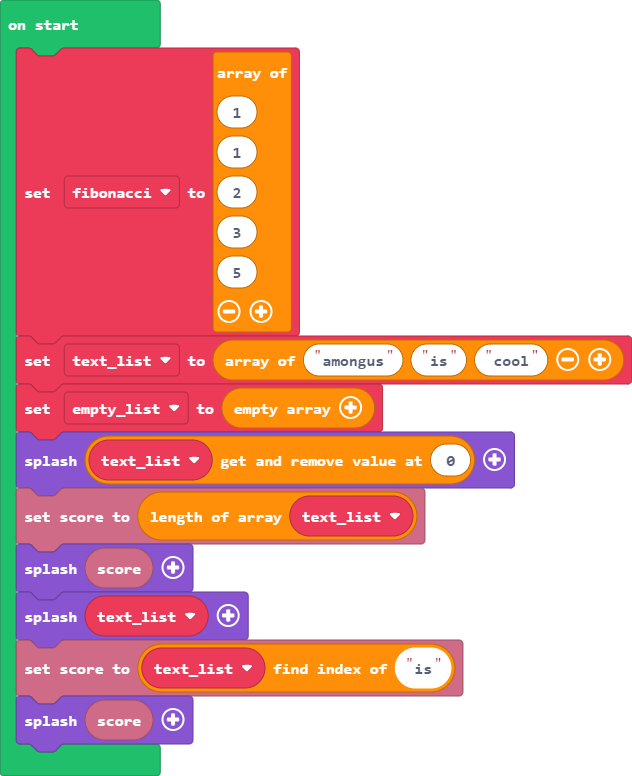
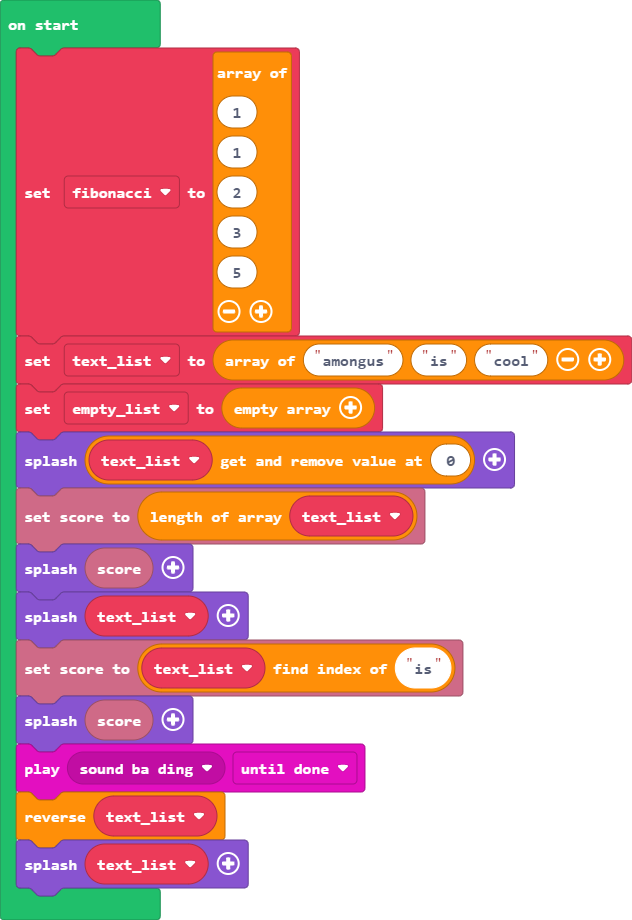
Reverse list (arrays)

diff --git a/main.ts b/main.ts
@@ -13,3 +13,6 @@ game.splash(info.score())
 game.splash(text_list)
 info.setScore(text_list.indexOf("is"))
 game.splash(info.score())
+music.play(music.melodyPlayable(music.baDing), music.PlaybackMode.UntilDone)
+text_list.reverse()
+game.splash(text_list)
